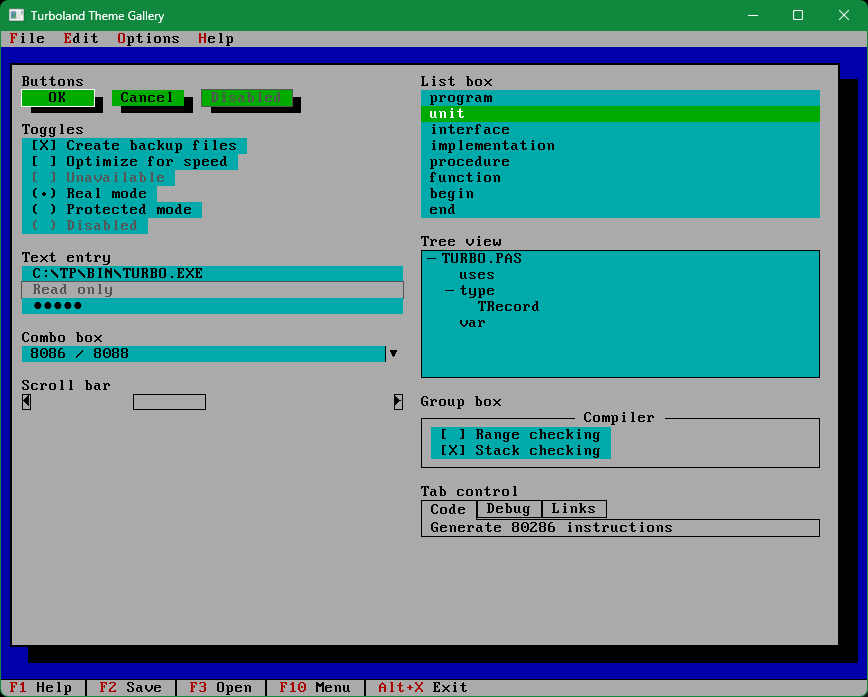
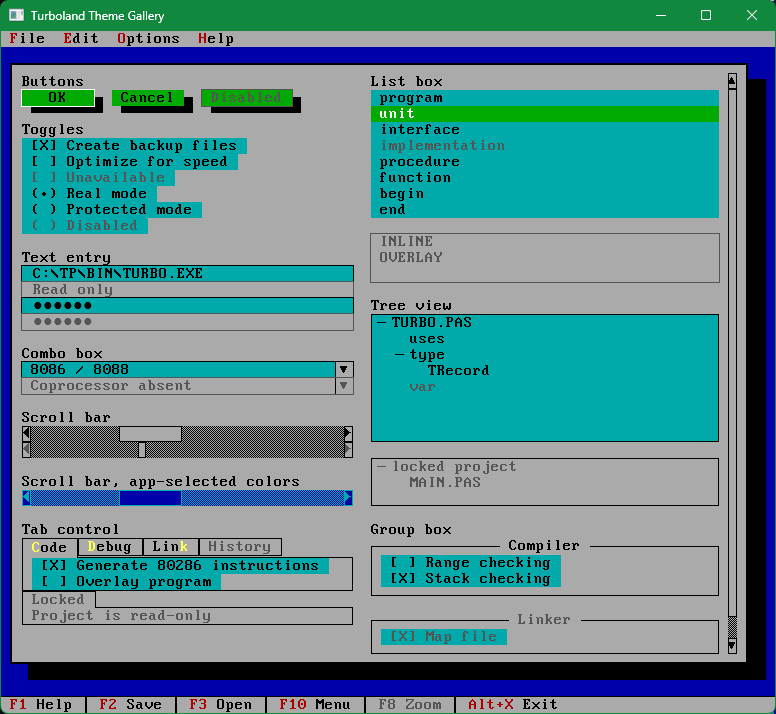
Readme and screenshots

diff --git a/README.md b/README.md
@@ -1,7 +1,7 @@
 # Turboland Theme for WPF
 
 A reusable WPF theme that gives a modern .NET desktop application the look of the
-classic DOS IDEs - VGA palette, box-drawing frames, hard
+classic DOS-era IDEs - VGA palette, box-drawing frames, hard
 shadows, and a strict character grid - without giving up standard Windows behavior.
 
 The theme re-templates stock WPF controls. It does not replace them.
@@ -25,8 +25,7 @@ The theme re-templates stock WPF controls. It does not replace them.
 - **Native window behavior** - the frame is drawn in the client area, but resize,
   maximise, Snap Layouts and the taskbar all still work.
 - **Two dialog shapes** - `TurbolandDialog` floats inside the main window like a real
-  text-mode dialog, and `TurbolandFloatingDialog` is a true owned window whose shadow
-  rides a transparent surface - the one to use over WebView2 or other airspace content.
+  text-mode dialog, and `TurbolandFloatingDialog` is a true owned window with emulated drop shadow.
 - **No hardcoded values** - the theme is driven entirely by named design tokens you
   can read, reuse or override.
 
